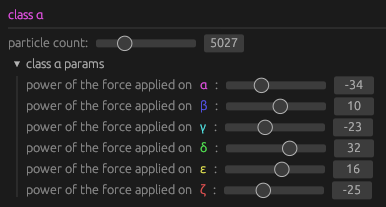
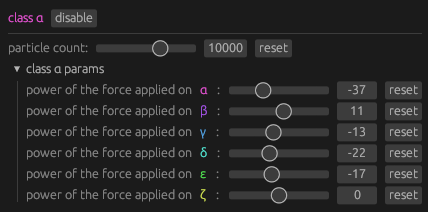
v1.3.0 (+)
- Make cells three times smaller than the particle interaction limit distance to reduce performance impact of particle gathering together
- Update images
- Add seeds

diff --git a/src/simulation.rs b/src/simulation.rs
@@ -7,15 +7,15 @@ use rayon::prelude::*;
 
 use crate::{mat::Mat2D, CLASS_COUNT, MAX_PARTICLE_COUNT};
 
-pub const PROXIMITY_POWER: f32 = -200.; // -60.
+pub const PROXIMITY_POWER: f32 = -160.;
 
-const DAMPING_FACTOR: f32 = 0.06; // 0.06
-const FORCE_SCALING_FACTOR: f32 = 0.0004; // 0.0008
+const DAMPING_FACTOR: f32 = 100.;
+const FORCE_SCALING_FACTOR: f32 = 0.0004;
 
 const SPAWN_DENSITY: f32 = 0.035;
 
-pub const FIRST_THRESHOLD: f32 = 6.; // 10.
-pub const SECOND_THRESHOLD: f32 = 20.; // 12.
+pub const FIRST_THRESHOLD: f32 = 4.;
+pub const SECOND_THRESHOLD: f32 = 20.;
 /// Range in which particles interact. If two particles are
 /// farther away than this distance, the will never interact.
 const INTERACTION_RANGE: f32 = FIRST_THRESHOLD + 2. * SECOND_THRESHOLD;
@@ -36,7 +36,7 @@ pub fn compute_force(radius: f32, power: f32) -> f32 {
 pub struct Cell(pub i32, pub i32);
 
 impl Cell {
-    pub const CELL_SIZE: f32 = INTERACTION_RANGE + 0.001;
+    pub const CELL_SIZE: f32 = INTERACTION_RANGE / 3.;
 
     pub fn from_position(position: Vec2) -> Self {
         Self(
@@ -45,35 +45,17 @@ impl Cell {
         )
     }
 
-    #[inline]
-    pub const fn get_neighbors(&self) -> [Cell; 9] {
+    pub fn get_neighbors(&self) -> impl Iterator<Item = Cell> {
+        // Note: The value of R must always be greater than
+        // `ceil(INTERACTION_RANGE / Cell::CELL_SIZE)`
+        const R: i32 = (INTERACTION_RANGE / Cell::CELL_SIZE) as i32;
+
         let Cell(x, y) = *self;
-        [
-            Cell(x - 1, y - 1),
-            Cell(x - 1, y),
-            Cell(x - 1, y + 1),
-            Cell(x, y - 1),
-            Cell(x, y),
-            Cell(x, y + 1),
-            Cell(x + 1, y - 1),
-            Cell(x + 1, y),
-            Cell(x + 1, y + 1),
-        ]
+
+        (-R..=R)
+            .flat_map(move |i| (-R..=R).map(move |j| (i, j)))
+            .map(move |(i, j)| Cell(x + i, y + j))
     }
-
-    // pub fn get_neighbors(&self) -> impl Iterator<Item = Cell> {
-    //     // Note: The value of R must always be greater than
-    //     // `ceil(INTERACTION_RANGE / Cell::CELL_SIZE)`
-    //     const R: i32 = (INTERACTION_RANGE / Cell::CELL_SIZE + 0.1) as i32;
-    //     const R_SQUARED: i32 = R * R;
-
-    //     let Cell(x, y) = *self;
-
-    //     (-R..=R)
-    //         .flat_map(move |i| (-R..=R).map(move |j| (i, j)))
-    //         .filter(move |(i, j)| i * i + j * j < R_SQUARED)
-    //         .map(move |(i, j)| Cell(x + i, y + j))
-    // }
 }
 
 #[derive(Debug, Clone)]
@@ -127,9 +109,9 @@ impl Simulation {
     fn compute_position_updates(&self) -> Vec<((usize, usize), (Vec2, Vec2))> {
         self.cell_map
             .par_iter()
-            .map(|(cell, particles)| {
+            .map(|(&cell, particles)| {
                 // Fetch the particles of neighboring cells
-                let neighboring_particles = self.get_neighboring_particles(*cell);
+                let neighboring_particles = self.get_neighboring_particles(cell);
 
                 let mut new_positions: Vec<((usize, usize), (Vec2, Vec2))> = Vec::new();
 
@@ -152,7 +134,8 @@ impl Simulation {
                     let prev_pos = self.particle_prev_positions[(c1, p1)];
 
                     // scale calculated force and add damping
-                    force = force * FORCE_SCALING_FACTOR + (prev_pos - pos) * DAMPING_FACTOR;
+                    force += (prev_pos - pos) * DAMPING_FACTOR;
+                    force *= FORCE_SCALING_FACTOR;
 
                     // Verlet integration
                     let new_pos = 2. * pos - prev_pos + force;
@@ -170,9 +153,9 @@ impl Simulation {
 
     fn get_neighboring_particles(&self, cell: Cell) -> Vec<(usize, usize)> {
         cell.get_neighbors()
-            .iter()
+            // .iter()
             // get non-empty cells
-            .filter_map(|neighbor| self.cell_map.get(neighbor))
+            .filter_map(|neighbor| self.cell_map.get(&neighbor))
             .flat_map(|particles| particles.iter().copied())
             // keep particles from enabled classes only
             .filter(|&(c, _)| self.enabled_classes[c])

diff --git a/seeds.md b/seeds.md
@@ -1,124 +1,14 @@
 # Interesting seeds
 
-**NOTE: FIRST SEEDS WERE TESTED WITH OLD SETTINGS SO THEY HAVE GREAT CHANCE OF NOT BEHAVING AS DESCRIBED**
+- `symtab_freshed_chuckled`
+- `queery_spating_rubellas`: this one has 4-class gliders
+- `zendos_acoasma_rubbisy`
+- `fiaunt_reprises_seahorse`
+- `debuting_bonetta_healths`
+- `reselect_striolae_dwindle`
+- `eggy_outstay_tailward`
+- `frisson_tentor_hues`
 
-- Added before `0.1.1`
-  - `helide_burdener`: complex cells.
-  - `polyp_naif`: moving cells chasing each other.
-  - `friborg_apositia`: wtf.
-  - `cessavit_pinkeys`: several different types of cells, all interesting.
-  - `amuletic_nutlike`: blue cells need some yellow particles to be stable.
-  - `hamlets_lingers`: big red cell with interesting shape. It can not merge (unstable) with the other one when there is two of them remaining.
-  - `vaginae_invecked`: red circle attacks blue particles. orange+yellow chases red. orange+purple makes stable cell.
-  - `nominy_tamboo`: light blue, purple and pink form cells with an interesting organisation.
-  - `adored_duvetine`: different structures, very lively.
-  - `hepcat_radius`
-  - `lifeway_unambush`
-  - `bestreak_incised`
-  - `gau_reformat`
-  - `coombes_embody`
-  - `aristae_gloaming`
-  - `pulvinar_paprica`
-  - `chaining_smartass`: unusual structures forming. example: two circles, red and yellow, kind of rotating around each other in opposite ways, tried to reproduce but it seems to require a certain number of each particle.
-  - `cinders_salite`
-- Added after `0.1.1`
-  - `reshoe_lusory`
-  - `scrank_chry`
-  - `shmo_obtainal`
-  - `shoes_viagram`
-  - `mischose_lockrum`
-  - `risuses_picucule`: kind of organism that seeks yellow particle balls.
-  - `sanicles_politei`
-  - `bulbul_munchet`
-  - `tideling_graved`
-  - `ductless_marques`
-  - `underarm_luminary_paplike`
-  - `carved_calamar_bandage`
-  - `muscular_template_wiglet`
-  - `saponify_sproat_gong`
-  - `fatted_jaman_handbags`
-  - `corcle_crinid_crepitus`
-  - `virtuosa_ensconce_upheaps`
-  - `reinters_gymnic_eructing`
-- Added after `0.1.2`
-  - `disbowel_decor_bingo`
-  - `zeks_oriels_yucch`: geometrical pattern ?
-  - `outlaugh_chubasco_joulean`: big moving organism
-  - `chlorize_adaxial_gaiting`
-  - `grape_soushy_korakan`
-  - `scalado_couter_poldavy`
-  - `wagbeard_chacoli_overhusk`
-  - `consulta_segueing_errorist`
-  - `gata_perfay_acounter`: beautiful.
-  - `lactify_fiberous_otiant`
-  - `mown_zibeth_killadar`
-  - `caulk_mavin_smews`
-  - `gibbered_terrains_masoola`
-  - `pneumas_razzle_tenet`
-  - `apass_boogy_paesan`
-  - `fistfuls_pinnaces_folkland`
-  - `sillar_cowbanes_murexes`
-  - `scalma_cobless_conicein`
-  - `petrify_assembl_amphide`
-  - `aphesis_muskegs_intake`
-  - `salicin_vipers_blurb`
-  - `laptops_concuss_pates`
-  - `palpifer_evermore_morphgan`
-  - `kakas_afteroar_bhuts`
-  - `misogyne_sengi_depthen`
-- Added after `0.1.3`
-  - `anthrone_garle_grunt`: asymetrical moving cell
-  - `vocables_tenorist_hazardry`
-  - `hydrazin_ycleping_flunkey`
-  - `taliage_slag_amphorae`
-  - `hapu_rooibok_vitamer`
-  - `carabeen_saucery_package`
-  - `bondsmen_impi_erliche`: speeeeed (kind of)
-  - `breaming_uncivic_unfellow`
-  - `valentin_fleurit`: my name
-  - `unterse_trench_assures`
-  - `ethrog_tactus_stolons`: this one is truly beautiful: many classes spinning together (actually 5-6 of 8 classes).
-  - `atavism_priests_physique`
-  - `emer_broil_choicest`
-  - `hyaloid_claviole_hoop`
-  - `earnests_rays_sossle`
-  - `rheadine_rikshas_handguns`: first time I encounter this: a cell that mirrors its geometry when bouncing on the border and goes in the opposite direction
-  - `widowing_excides_sortwith`
-  - `firiness_exundate_feering`
-  - `propanol_katana_antwise`
-  - `timar_cammocky_enforth`: stable 6 class cell that moves fast and is really stable (S tier for me)
-  - `thinning_dipnoan_ragbolt`
-  - `caseworm_cocco_unfluent`
-  - `joinered_passages_columna`
-  - `ortho_firmness_aquavits`
-  - `topped_gagelike_sandwort`
-  - `hatboxes_appears_spousage`
-  - `rebut_cuartino_bugler`
-  - `firebrat_ruches_sidle`
-  - `mathetic_mouched_bordrage`
-  - `quart_fencelet_talipeds`
-  - `malate_roundoff_vaporous`: spiiin
-  - `devein_adonize_soring`
-  - `pimps_copula_unharsh`
-  - `couchy_catydid_leucopus`
-  - `berme_abdest_boccale`
-- Added after `0.1.4`
-  - `heuchs_scarman_endorsor`
-  - `spinouts_amlet_hatsful`
-  - `spitter_relate_longwool`
-  - `mulct_chukor_caama`
-  - `justs_klosh_kendoist`
-- Added after `v1.0.0`
-  - `caprylyl_plumbed_triacids`
-- Added after `v1.2.0`
-  - `symtab_freshed_chuckled`
-  - `queery_spating_rubellas`: this one has 4-class gliders
-  - `zendos_acoasma_rubbisy`
-  - `fiaunt_reprises_seahorse`
-  - `debuting_bonetta_healths`
-  - `reselect_striolae_dwindle`
+## Experimentation
 
-# Experimentation
-
-- Added after `v1.2.0`
-  - `@4vb29vYo9uL2KPb29vbi9ij29ij24vb29vYo9uL2KPb29vbi`
+- `@4vb29vYo9uL2KPb29vbi9ij29ij24vb29vYo9uL2KPb29vbi`
